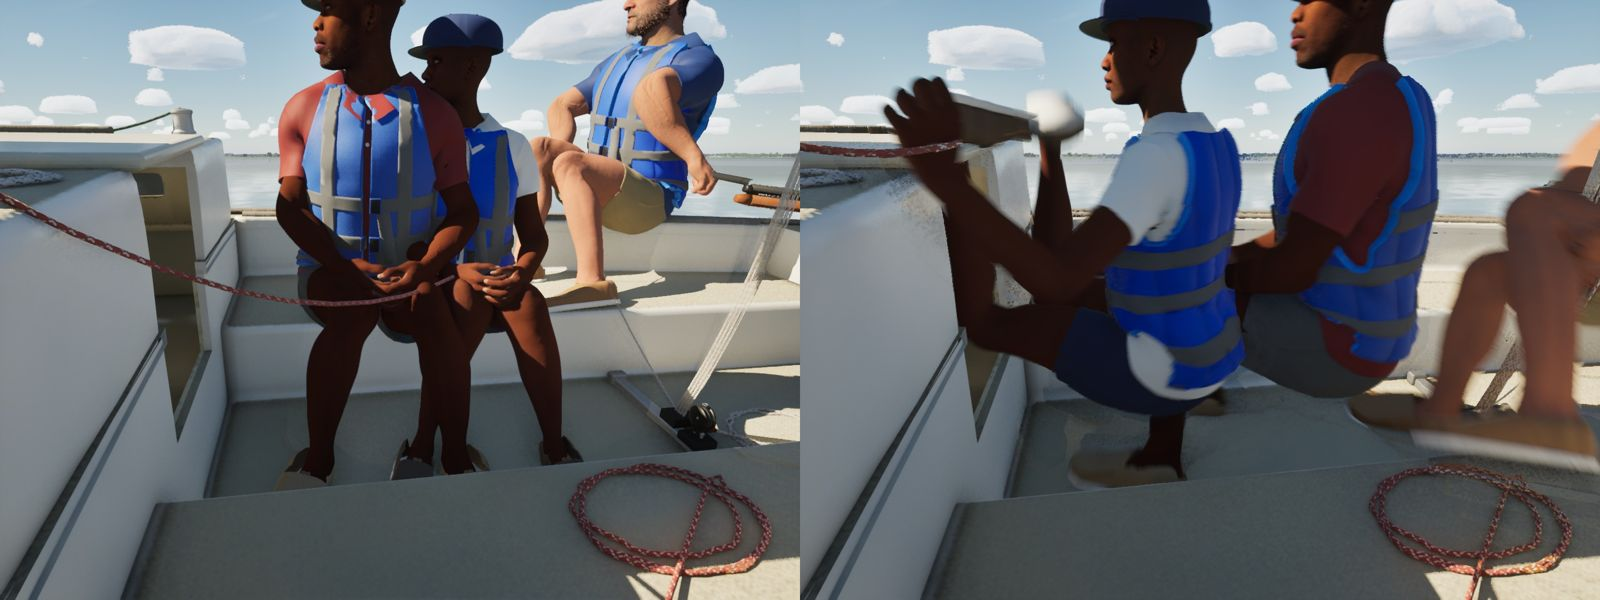
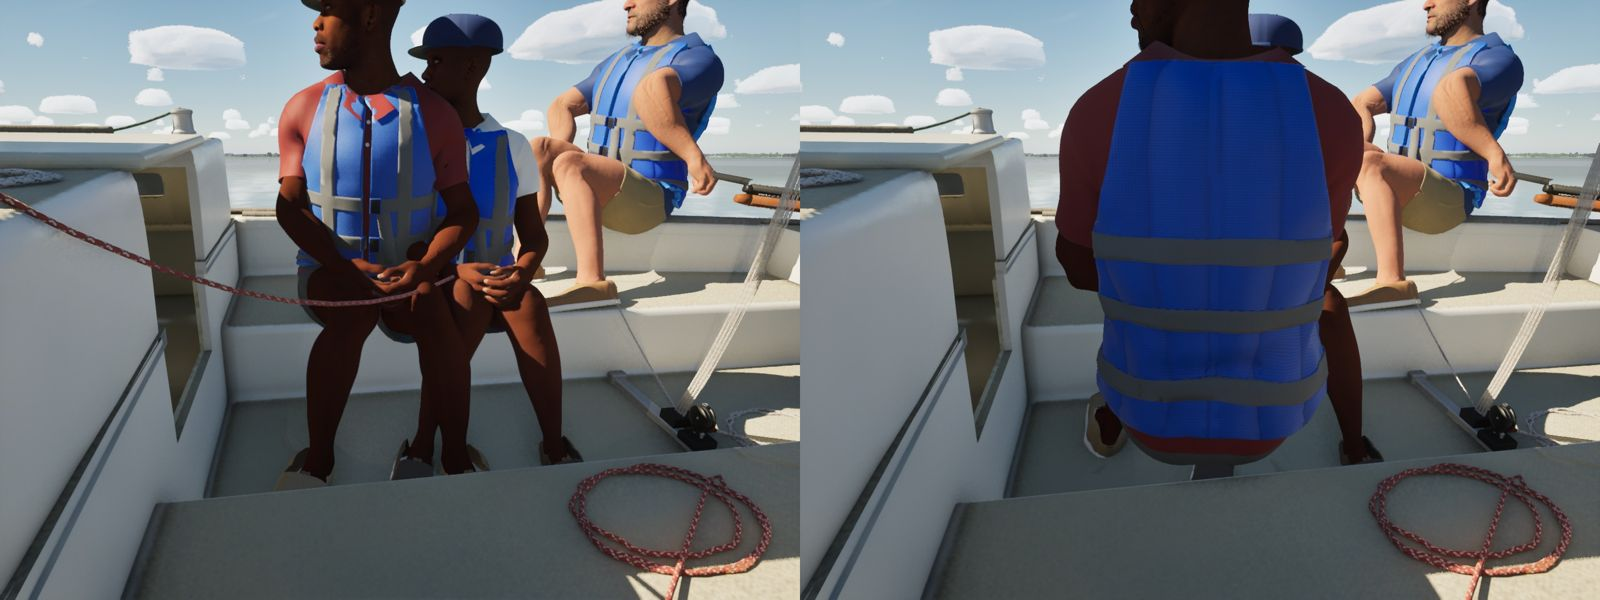
Crew held line: the J/22's light-air bow on the other seat (room for one a side forward of the bridge)
Claude-Session: https://claude.ai/code/session_01NVpMHvDFAJtqCmoCXtRkGQ

Changed region(s): [[0.5, 0.0, 1.0, 0.81], [0.9062, 0.93, 0.9688, 1.0]]

diff --git a/Source/SailingSim/Private/CrewMotion.cpp b/Source/SailingSim/Private/CrewMotion.cpp
@@ -257,14 +257,11 @@ void CrewPlacement(const FCrewPlaceInput& In, FCrewPlacement& Out)
 		|| (FMath::Abs(In.OffsetRate) > 0.6 && Off < (bDinghy ? FMath::Min(0.2, 0.8 * Cfg.CrewSitOut) : 0.8 * Cfg.CrewSitOut));
 	// docs/crew-hull-clip/: facing across the boat in the well (on a seat, or crossing), the hips are a body's width
 	// apart fore and aft; at 0.12 m from the well's forward end the forward hip went into the cabin trunk's face.
-	// (Each a body's width, 0.45 m, further aft than the one forward of them: held all to the same 0.3 m, the J/22's
-	// trimmer and bow sat in each other on the leeward seat in light air. The J/22's trimmer takes the forward place,
-	// beside the jib winch's self-tailer, the bow the next one aft.)
+	// (Each a body's width, 0.42 m, further aft than the one forward of them: held all to the same 0.3 m they sat in each
+	// other. The J/22's two in the 0.95 m between her cabin and her traveler bridge sit on opposite seats instead: below.)
 	if (!bDinghy && !Cfg.bMultihull && Cfg.Type != EBoatType::Maxi && !Out.bHelm && KeelWell.X1 > KeelWell.X0 && (bCrossing || Off <= 0.55 * Rail))
 	{
-		const bool bJ22 = Cfg.Type == EBoatType::J22 && N == 3;
-		const int32 Rank = bJ22 ? (I == N - 2 ? 0 : 1) : I;
-		X = bJ22 ? KeelWell.X1 - 0.3 - 0.45 * Rank : FMath::Min(X, KeelWell.X1 - 0.3 - 0.45 * Rank);
+		X = FMath::Min(X, KeelWell.X1 - 0.3 - (Cfg.Type == EBoatType::J22 ? 0.0 : 0.42 * I));
 	}
 	if (In.bRighting)
 	{
@@ -338,7 +335,10 @@ void CrewPlacement(const FCrewPlaceInput& In, FCrewPlacement& Out)
 	{
 		// Light air or downwind: on the cockpit seat (to leeward if the crew model put them there).
 		P.Stance = ECrewStance::Cockpit;
-		Out.Pelvis = FVector(X, Side * FMath::Clamp(Off, 0.35, FMath::Max(Rail - 0.45, 0.35)), Sheer - 0.10);
+		// The J/22's bow on the other seat from the trimmer: 0.28 m apart on one seat they sat in each other (the well forward
+		// of her traveler bridge has room for one a side; further apart their feet stepped onto the bridge or the cabin's face).
+		if (Cfg.Type == EBoatType::J22 && N == 3 && I == 0) P.Side = -P.Side;
+		Out.Pelvis = FVector(X, P.Side * FMath::Clamp(Off, 0.35, FMath::Max(Rail - 0.45, 0.35)), Sheer - 0.10);
 		// docs/crew-hull-clip/: on the seat, not 6 cm into it (a seated pelvis is about 9 cm over what it sits on).
 		if (!Cfg.bMultihull)
 		{

diff --git a/docs/crew-held-line/README.md b/docs/crew-held-line/README.md
@@ -16,9 +16,11 @@ the leeward seat.
   is unchanged.
 - **The wrist** (`CrewSolver::ClampWrist`, after the palm turns to the line): flexion within ±60° and deviation within
   ±25° of the rest pose. The turn about the forearm is left alone, so the forearm takes the rest.
-- **The light-air seat** (`CrewPlacement`): the keelboats' seated crew are now each 0.45 m further aft than the one
-  forward of them. Before, all of them were clamped to the same spot, 0.3 m aft of the well's forward end. On the J/22 the
-  trimmer takes the forward place, beside the jib winch, and the bow sits next aft.
+- **The light-air seat** (`CrewPlacement`): the keelboats' seated crew are now each 0.42 m further aft than the one
+  forward of them. Before, all of them were clamped to the same spot, 0.3 m aft of the well's forward end. The J/22 is
+  different: the forward part of her well, between the cabin and the traveler bridge, is 0.95 m long. Moved apart there,
+  someone's feet stepped onto the bridge or the cabin's face (`CrewClipLimits`). So in light air her bow takes the other
+  seat. With the bow out of the way, the trimmer reaches the self-tailer again.
 - **The jib sheet's tail** (`UpdateModelRig`): it goes only into a hand that holds it. Otherwise it lies where the model
   lays it. Before, it went to the nearer hand resting on a knee, through the thigh.
 
@@ -33,13 +35,13 @@ and the J/22's crew 0.28 m apart.
 
 The stills are before (main) and after, High, 4 kn, 50° TWA:
 
-- `winch-hand-side`: the trimmer and bow apart;
-- `hands-close`: the hands, and the tail no longer through the thigh.
+- `winch-hand-side`: the bow now on the near seat;
+- `winch-hand-ultra`: the PC's repro view, Ultra. The trimmer holds the tail at the self-tailer again.
+- `winch-hand-zoom`: that hand, closed round the sheet with the wrist near straight.
 
 ## Not done
 
-- **The winch hold itself:** on the Mac, the trimmer doesn't take the tail into a hand in this setup, on main either. So
-  the fixed winch hand can't be shown here; the test checks the hand directly. Please re-shoot it on the PC with the same
-  args.
+- **The winch hold:** `winch-hand-zoom` is 10 cm from the camera, in shade. Please re-shoot it on the PC with the same
+  args to confirm.
 - **The vest at the armpit:** the vest poking through the polo at the armpit isn't touched. It needs the vest's weights
   near the armpit checked in `build_vest.py`, with the MetaHuman clothes rebuilt.
